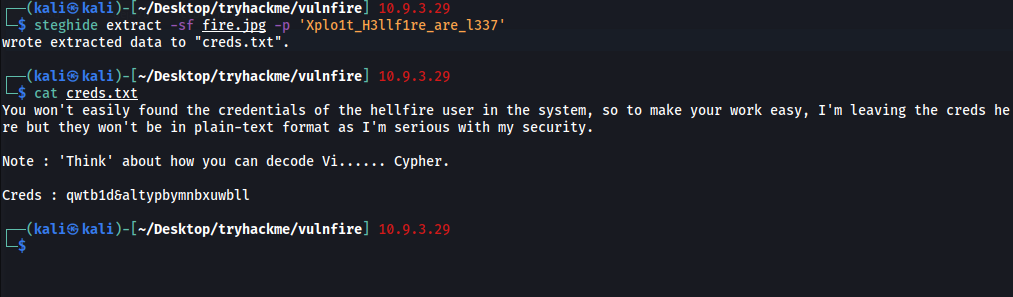
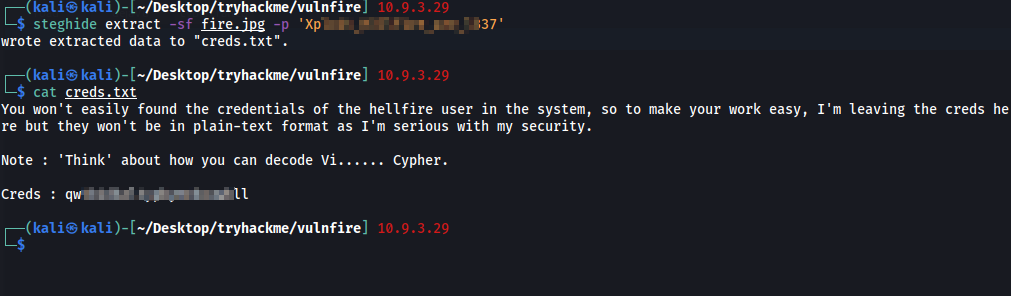
update-vulnfire

diff --git a/TryHackMe/Vulnfire/vulnfire.md b/TryHackMe/Vulnfire/vulnfire.md
@@ -51,11 +51,11 @@ On visiting the website at http://IP we are presented the default Apache web pag
 We find two interesting results:
 * security.php
 	* Upon visiting this page, we are taken to `/op_security.php?cmd=`
-* string.txt
+* somerandomhiddenfilethatyoucantfind48685475814.txt
 ```txt
 	Steganography is super awesome and l337 techinque. 
 
-	Xplo1t_H3llf1re_are_l337
+	Xp********************37
 ```
 Okay, so we need to do some form of steganography based on the hint above. Let's save this weird string somewhere accessible. We might need it later.
 
@@ -85,7 +85,7 @@ what's inside `confidential.zip`
 
 # Unravelling the data!
 * So we have to do steganography on this `fire.jpg` file
-* When using steghide to extract from the image, we are asked a passphrase. Try using the weird string `************************` we found in string.txt on the web server.
+* When using steghide to extract from the image, we are asked a passphrase. Try using the weird string `Xp********************37` we found in string.txt on the web server.
 
 ![steghide.png](https://raw.githubusercontent.com/xplo1t-sec/CTF/master/TryHackMe/Vulnfire/images/steghide.png)
 
